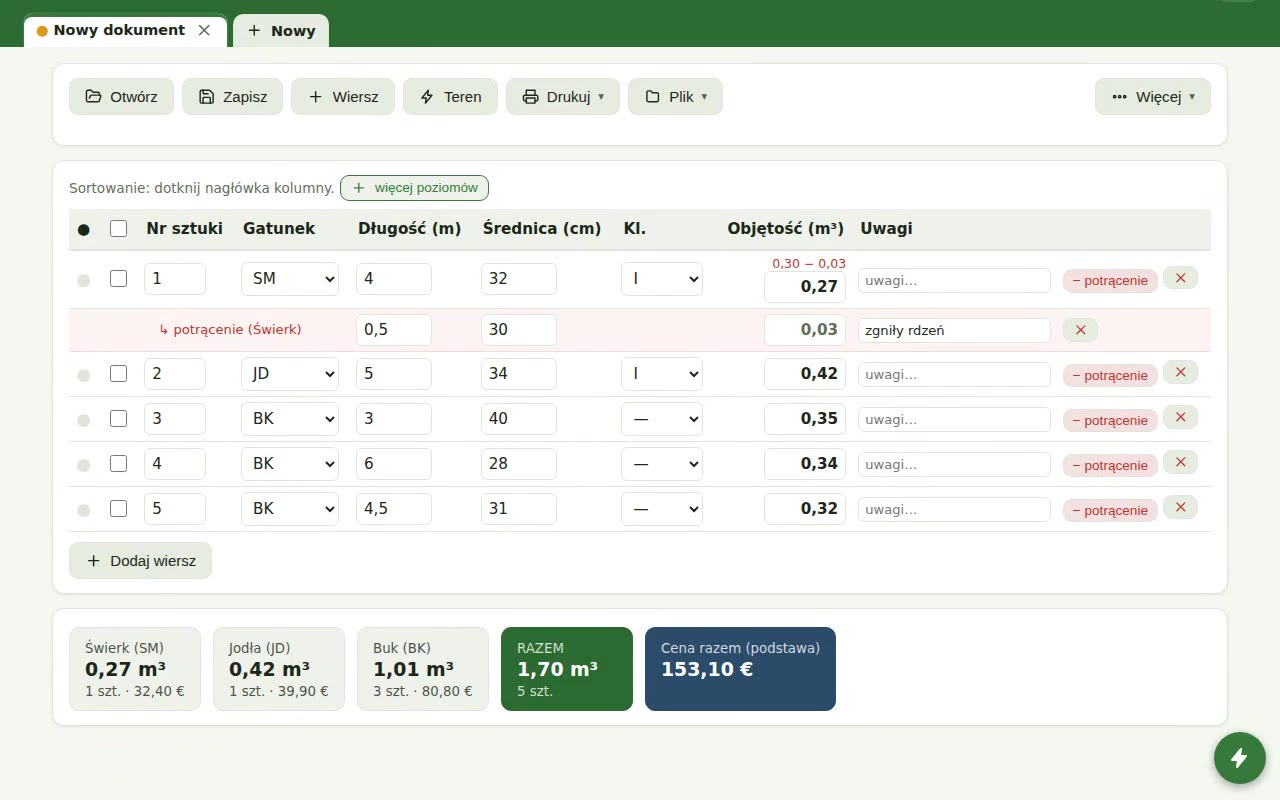
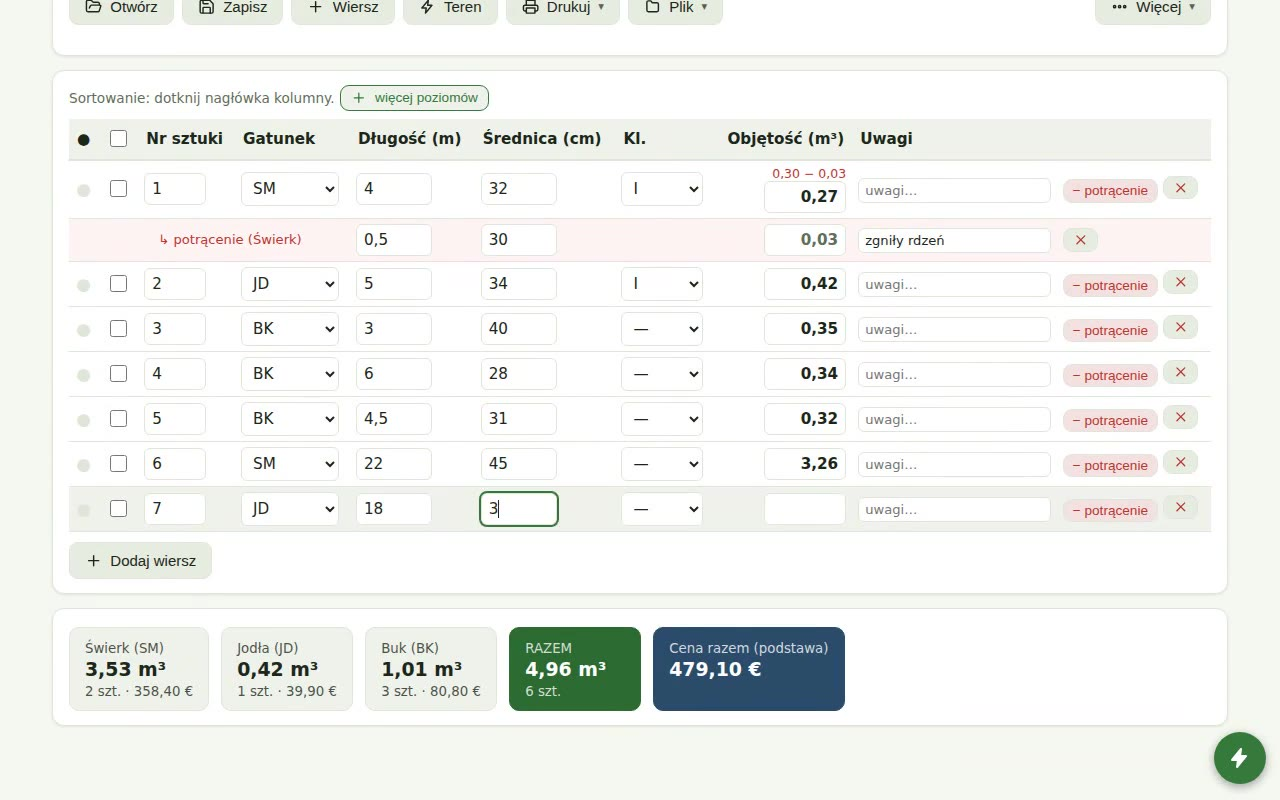
SEO dla polskiej wersji (keywords, og, JSON-LD, sitemap) + nowe wideo ukazka (długie kłody 18–27 m)

diff --git a/pl/index.html b/pl/index.html
@@ -6,7 +6,7 @@
 <meta name="google-site-verification" content="sp3hbCPiwG9lFHeZf06y-oNrHcWPVMDfUQzmZnFVwSw" />
 <title>Kubikovač – program do pomiaru drewna okrągłego | obliczanie objętości (norma STN 48 0009)</title>
 <meta name="description" content="Kubikovač – program do pomiaru drewna okrągłego i obliczania objętości (kubikowania) zgodny ze słowacką normą STN 48 0009. Dokument pochodzenia drewna LA 43, potrącenia, cennik według klasy, przeliczenie na metry przestrzenne. Windows, Android i Linux, działa offline. Interfejs po polsku.">
-<meta name="keywords" content="kubikovac, kubíkovač, kubíkovanie guľatiny, kubírovanie, meranie guľatiny, meranie objemu guľatiny, výpočet objemu dreva, určenie objemu dreva, objem guľatiny, drevo objem, kubik dreva, výpočet kubíkov dreva, kalkulačka objemu dreva, program na kubíkovanie, STN 48 0009, doklad o pôvode dreva, LA 43, tlačivo LA43, guľatina smrek, píla, lesníctvo">
+<meta name="keywords" content="kubikowanie drewna, kubikowanie drewna okrągłego, obliczanie objętości drewna, objętość drewna okrągłego, miąższość drewna, tablice miąższości, pomiar drewna okrągłego, kalkulator objętości drewna, program do kubikowania, kubik drewna, objętość kłody, przelicznik metrów przestrzennych, mp na m3, dokument pochodzenia drewna, LA 43, STN 48 0009, drewno okrągłe, tartak, skup drewna, leśnictwo, nabywca drewna, przewóz drewna ze Słowacji, drewno ze Słowacji">
 <meta name="author" content="AGROBERIT s. r. o.">
 <meta name="robots" content="index, follow">
 <link rel="canonical" href="https://kubikovac.github.io/pl/">
@@ -17,21 +17,23 @@
 <link rel="apple-touch-icon" href="/apple-touch-icon.png">
 <!-- náhľad pri zdieľaní (Facebook, Messenger, WhatsApp…) -->
 <meta property="og:type" content="website">
-<meta property="og:site_name" content="Kubikovač guľatiny">
-<meta property="og:title" content="Kubikovač guľatiny – výpočet objemu dreva kompatibilný s STN 48 0009">
+<meta property="og:site_name" content="Kubikovač – drewno okrągłe">
+<meta property="og:title" content="Kubikovač – program do pomiaru drewna okrągłego i obliczania objętości (STN 48 0009)">
 <meta property="og:description" content="Profesjonalny program do kubikowania drewna okrągłego zgodny ze słowacką normą STN 48 0009. Dokument LA 43, cennik według klasy, statystyki. Windows, Android i Linux. Interfejs po polsku.">
-<meta property="og:url" content="https://kubikovac.github.io/">
+<meta property="og:url" content="https://kubikovac.github.io/pl/">
 <meta property="og:image" content="https://kubikovac.github.io/obrazky/pl/desktop.png">
-<meta property="og:locale" content="sk_SK">
+<meta property="og:locale" content="pl_PL">
+<meta property="og:locale:alternate" content="sk_SK">
 <meta name="twitter:card" content="summary_large_image">
 <!-- štruktúrované dáta pre Google (softvér + firma) -->
 <script type="application/ld+json">
 {
   "@context": "https://schema.org",
   "@type": "SoftwareApplication",
-  "name": "Kubikovač guľatiny",
-  "alternateName": ["Kubikovac", "Kubíkovač", "program na meranie guľatiny"],
-  "keywords": "meranie guľatiny, objem guľatiny, výpočet objemu dreva, kubíkovanie, kubírovanie, určenie objemu dreva, STN 48 0009, LA 43",
+  "name": "Kubikovač – drewno okrągłe",
+  "alternateName": ["Kubikovac", "program do kubikowania drewna", "kalkulator objętości drewna okrągłego"],
+  "inLanguage": ["pl", "sk"],
+  "keywords": "kubikowanie drewna, objętość drewna okrągłego, miąższość drewna, obliczanie objętości drewna, tablice miąższości, STN 48 0009, LA 43",
   "applicationCategory": "BusinessApplication",
   "operatingSystem": "Windows, Android, Linux",
   "description": "Program na výpočet objemu guľatiny (kubíkovanie) kompatibilný s STN 48 0009 – úradný doklad LA 43, odpočty, cenník podľa kvalitatívnej triedy, štatistiky. Funguje offline.",
@@ -153,7 +155,7 @@
   }
 </style>
 <script type="application/ld+json">
-{"@context":"https://schema.org","@type":"WebSite","name":"Kubikovač guľatiny","url":"https://kubikovac.github.io/"}
+{"@context":"https://schema.org","@type":"WebSite","name":"Kubikovač – drewno okrągłe","url":"https://kubikovac.github.io/pl/","inLanguage":"pl"}
 </script>
 <link rel="alternate" hreflang="sk" href="https://kubikovac.github.io/">
 <link rel="alternate" hreflang="pl" href="https://kubikovac.github.io/pl/">

diff --git a/pl/ako-to-funguje.html b/pl/ako-to-funguje.html
@@ -4,6 +4,7 @@
 <meta charset="utf-8">
 <meta name="viewport" content="width=device-width, initial-scale=1">
 <title>Jak działa Kubikovač – przewodnik po programie krok po kroku</title>
+<meta name="keywords" content="kubikowanie drewna, kubikowanie drewna okrągłego, obliczanie objętości drewna, objętość drewna okrągłego, miąższość drewna, tablice miąższości, pomiar drewna okrągłego, kalkulator objętości drewna, program do kubikowania, kubik drewna, objętość kłody, przelicznik metrów przestrzennych, mp na m3, dokument pochodzenia drewna, LA 43, STN 48 0009, drewno okrągłe, tartak, skup drewna, leśnictwo, nabywca drewna, przewóz drewna ze Słowacji, drewno ze Słowacji">
 <meta name="description" content="Jak działa Kubikovač – program do pomiaru drewna okrągłego: wprowadzanie sztuk, tryb terenowy na telefonie, potrącenia, urzędowy dokument LA 43, cennik według klasy, nadmiar 1 %, statystyki. Zgodny ze słowacką normą STN 48 0009. Interfejs po polsku.">
 <link rel="canonical" href="https://kubikovac.github.io/pl/ako-to-funguje.html">
 <link rel="icon" type="image/png" sizes="48x48" href="/favicon-48.png">